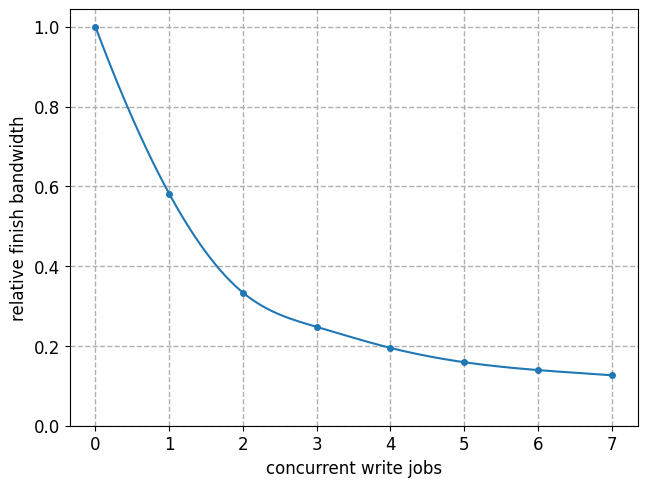
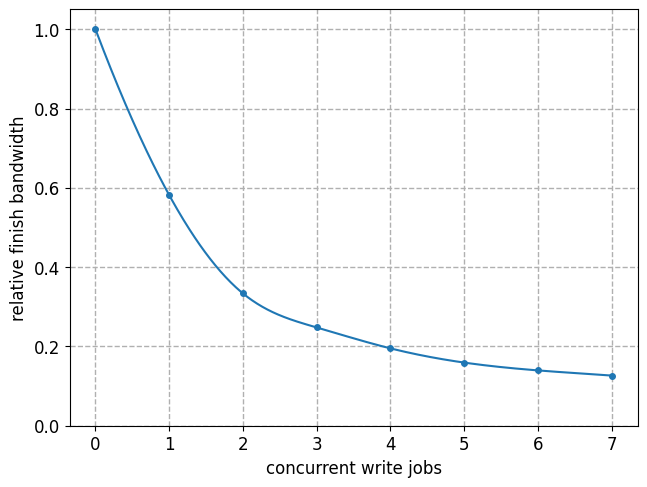
Update some figures

diff --git a/reset-perf/plot.py b/reset-perf/plot.py
@@ -104,7 +104,7 @@ if __name__ == "__main__":
     ax.set_axisbelow(True)
     # ax.legend(loc='best', handles=handles)
     # ax.legend(loc='best')
-    ax.set_ylim(bottom=0)
+    ax.set_ylim(bottom=0, top=1.05)
     # ax.set_xlim(left=0)
     ax.set_ylabel("relative reset bandwidth")
     ax.set_xlabel("concurrent write jobs")

diff --git a/finish-perf/plot.py b/finish-perf/plot.py
@@ -90,7 +90,7 @@ if __name__ == "__main__":
     ax.set_axisbelow(True)
     # ax.legend(loc='best', handles=handles)
     # ax.legend(loc='best')
-    ax.set_ylim(bottom=0)
+    ax.set_ylim(bottom=0, top=1.05)
     # ax.set_xlim(left=0)
     ax.set_ylabel("relative finish bandwidth")
     ax.set_xlabel("concurrent write jobs")
